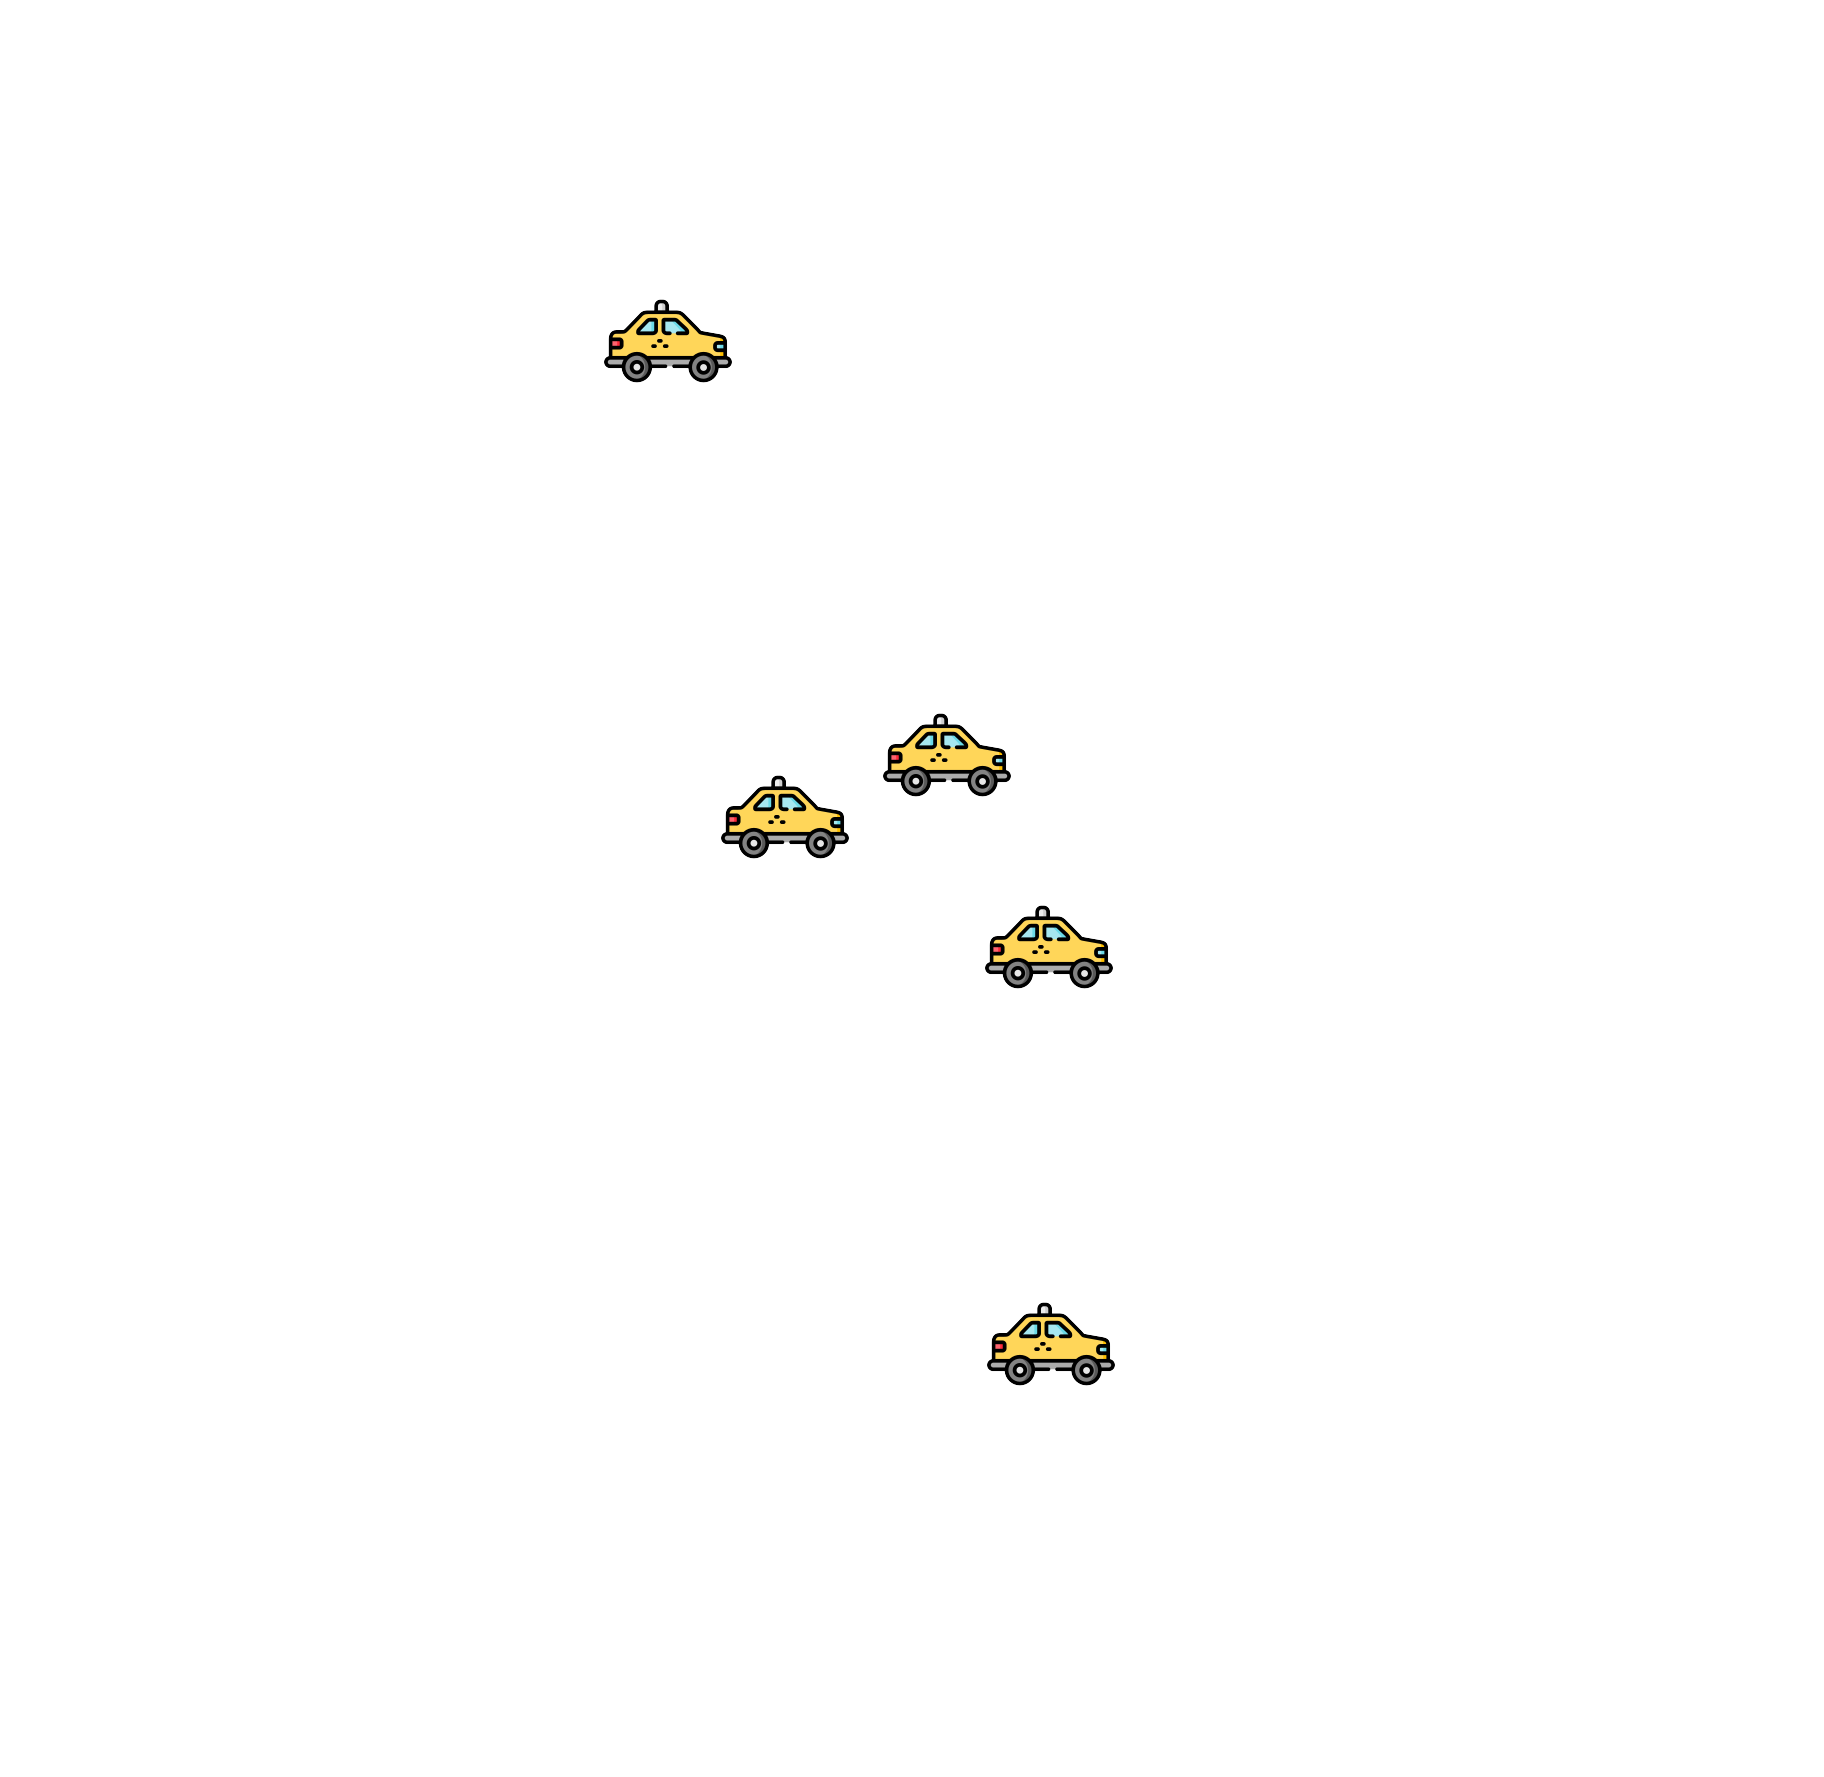
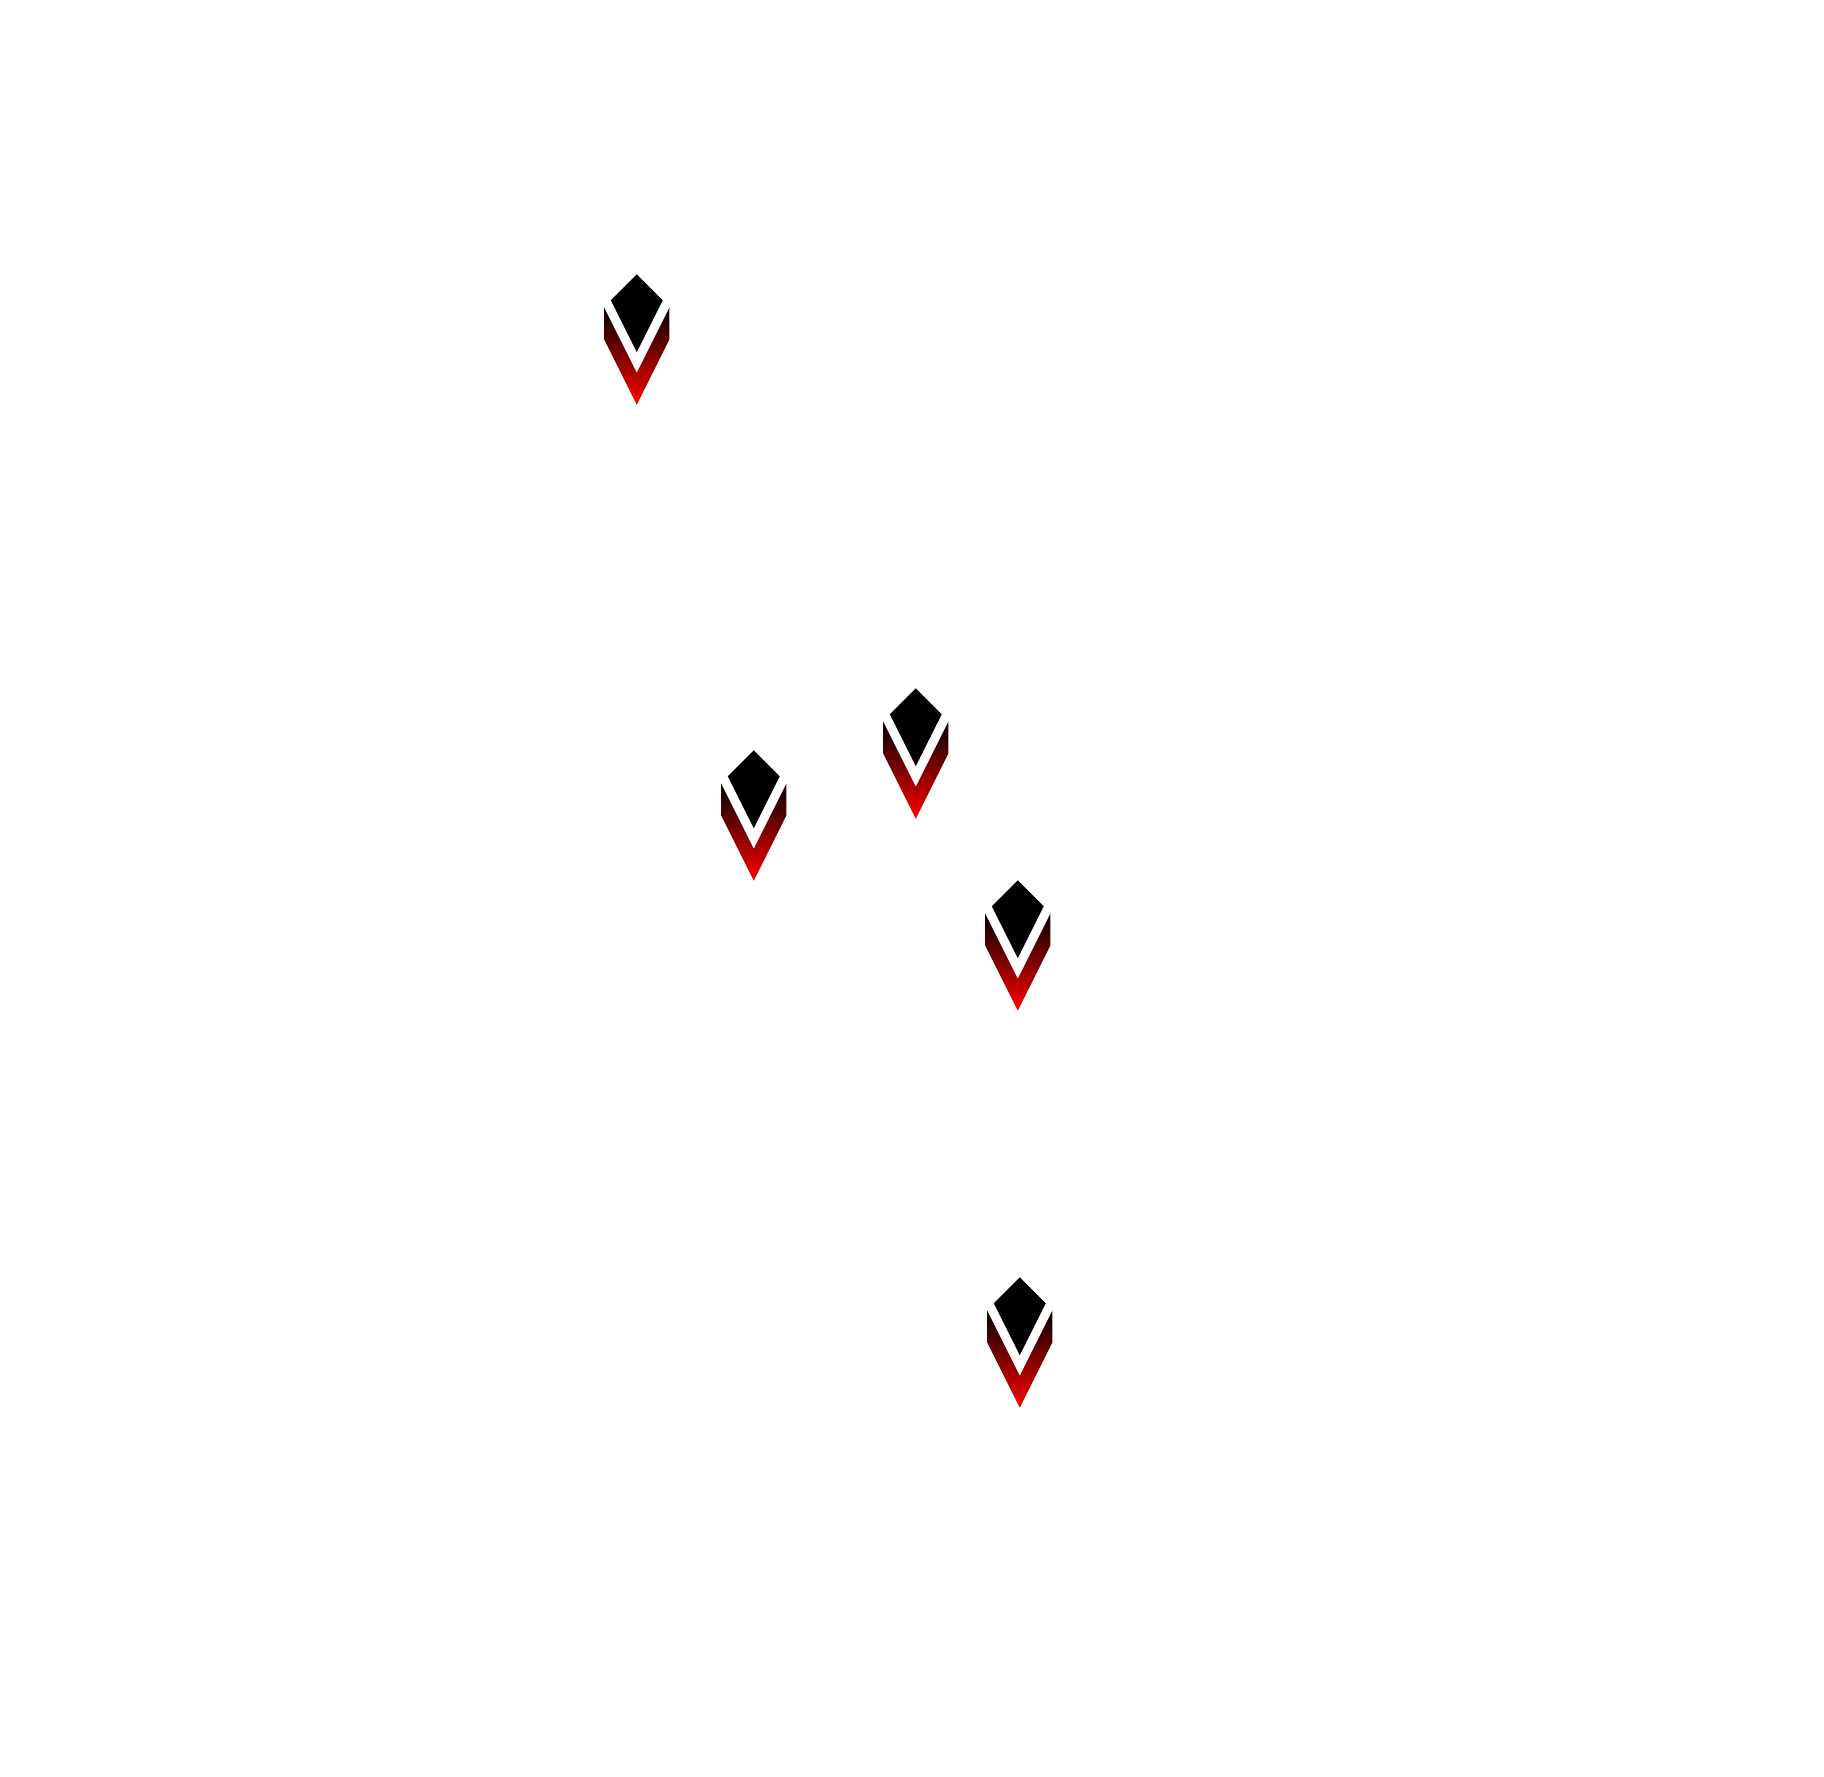
add test data download url for layer rendering apis(#26)
* add render images

* add render api markdown files

* add layer.rst

* add test data download url

* change icon png

diff --git a/doc-cn/source/python/api/render/function/layer/weighted_pointmap.md b/doc-cn/source/python/api/render/function/layer/weighted_pointmap.md
@@ -76,6 +76,7 @@ color_bound,size_bound,opacity,coordinate_system)**
       >>> from arctern.util.vega import vega_weighted_pointmap
       >>> 
       >>> # 读取 csv 文件并创建绘图数据
+      >>> # test_data.csv下载链接: https://github.com/zilliztech/arctern-resources/raw/benchmarks/benchmarks/dataset/layer_rendering_test_data/test_data.csv
       >>> df = pd.read_csv("test_data.csv", dtype={'longitude':np.float64, 'latitude':np.float64, 'color_weights':np.float64, 'size_weights':np.float64, 'region_boundaries':np.object})
       >>> region = arctern.ST_GeomFromText(pd.Series(['POLYGON ((-73.99668712186558 40.72972339069935, -73.99668712186558 40.7345193345495, -73.99045479584949 40.7345193345495, -73.99045479584949 40.72972339069935, -73.99668712186558 40.72972339069935))']))
       >>> d=pd.DataFrame(region).T

diff --git a/doc-cn/source/python/api/render/function/layer/heatmap.md b/doc-cn/source/python/api/render/function/layer/heatmap.md
@@ -70,6 +70,7 @@ coordinate_system,aggregation_type)**
       >>> from arctern.util.vega import vega_heatmap
       >>> 
       >>> # 读取 csv 文件并创建绘图数据
+      >>> # test_data.csv下载链接: https://github.com/zilliztech/arctern-resources/raw/benchmarks/benchmarks/dataset/layer_rendering_test_data/test_data.csv
       >>> df = pd.read_csv("test_data.csv", dtype={'longitude':np.float64, 'latitude':np.float64, 'color_weights':np.float64, 'size_weights':np.float64, 'region_boundaries':np.object})
       >>> region = arctern.ST_GeomFromText(pd.Series(['POLYGON ((-74.01424568752932 40.72759334104623, -74.01424568752932 40.76721122683304, -73.96056823889673 40.76721122683304, -73.96056823889673 40.72759334104623, -74.01424568752932 40.72759334104623))']))
       >>> d=pd.DataFrame(region).T

diff --git a/doc-cn/source/python/api/render/function/layer/pointmap.md b/doc-cn/source/python/api/render/function/layer/pointmap.md
@@ -70,6 +70,7 @@ opacity,coordinate_system)**
       >>> from arctern.util.vega import vega_pointmap
       >>> 
       >>> # 读取 csv 文件并创建绘图数据
+      >>> # test_data.csv下载链接: https://github.com/zilliztech/arctern-resources/raw/benchmarks/benchmarks/dataset/layer_rendering_test_data/test_data.csv
       >>> df = pd.read_csv("test_data.csv", dtype={'longitude':np.float64, 'latitude':np.float64, 'color_weights':np.float64, 'size_weights':np.float64, 'region_boundaries':np.object})
       >>> region = arctern.ST_GeomFromText(pd.Series(['POLYGON ((-74.01398981737215 40.71353244267465, -74.01398981737215 40.74480271529791, -73.96979949831308 40.74480271529791, -73.96979949831308 40.71353244267465, -74.01398981737215 40.71353244267465))']))
       >>> d = pd.DataFrame(region).T

diff --git a/doc-cn/source/python/api/render/function/layer/iconviz.md b/doc-cn/source/python/api/render/function/layer/iconviz.md
@@ -65,6 +65,7 @@
       >>> from arctern.util.vega import vega_icon
       >>> 
       >>> # 读取 csv 文件并创建绘图数据
+      >>> # test_data.csv下载链接: https://github.com/zilliztech/arctern-resources/raw/benchmarks/benchmarks/dataset/layer_rendering_test_data/test_data.csv
       >>> df = pd.read_csv("test_data.csv", dtype={'longitude':np.float64, 'latitude':np.float64, 'color_weights':np.float64, 'size_weights':np.float64, 'region_boundaries':np.object}, nrows=10)
       >>> region = arctern.ST_GeomFromText(pd.Series(['POLYGON ((-74.01424568752932 40.72759334104623, -74.01424568752932 40.76721122683304, -73.96056823889673 40.76721122683304, -73.96056823889673 40.72759334104623, -74.01424568752932 40.72759334104623))']))
       >>> d=pd.DataFrame(region).T

diff --git a/doc-cn/source/python/api/render/function/layer/choroplethmap.md b/doc-cn/source/python/api/render/function/layer/choroplethmap.md
@@ -74,6 +74,7 @@ color_bound,opacity,coordinate_system,aggregation_type)**
       >>> from arctern.util.vega import vega_choroplethmap
       >>> 
       >>> # 读取 csv 文件并创建绘图数据
+      >>> # test_data.csv下载链接: https://github.com/zilliztech/arctern-resources/raw/benchmarks/benchmarks/dataset/layer_rendering_test_data/test_data.csv
       >>> df = pd.read_csv("test_data.csv", dtype={'longitude':np.float64, 'latitude':np.float64, 'color_weights':np.float64, 'size_weights':np.float64, 'region_boundaries':np.object})
       >>> input1 = df[pd.notna(df['region_boundaries'])].groupby(['region_boundaries']).mean().reset_index()
       >>> polygon = arctern.ST_GeomFromText(input1['region_boundaries'])

diff --git a/doc-cn/source/spark/api/render/function/layer/choroplethmap.md b/doc-cn/source/spark/api/render/function/layer/choroplethmap.md
@@ -76,6 +76,7 @@ color_bound,opacity,coordinate_system,aggregation_type)**
       >>> spark = SparkSession.builder.appName("Python Arrow-in-Spark example").getOrCreate()
       >>> spark.conf.set("spark.sql.execution.arrow.pyspark.enabled", "true")
       >>> 
+      >>> # test_data.csv下载链接: https://github.com/zilliztech/arctern-resources/raw/benchmarks/benchmarks/dataset/layer_rendering_test_data/test_data.csv
       >>> table_df = spark.read.format("csv").option("header", True).option("delimiter", ",").schema(
       >>>     "longitude double, latitude double, color_weights double, size_weights double, region_boundaries string").load(
       >>>     "file:///tmp/test_data.csv").cache()

diff --git a/doc-cn/source/spark/api/render/function/layer/weighted_pointmap.md b/doc-cn/source/spark/api/render/function/layer/weighted_pointmap.md
@@ -78,6 +78,7 @@ color_bound,size_bound,opacity,coordinate_system)**
       >>> spark = SparkSession.builder.appName("Python Arrow-in-Spark example").getOrCreate()
       >>> spark.conf.set("spark.sql.execution.arrow.pyspark.enabled", "true")
       >>> 
+      >>> # test_data.csv下载链接: https://github.com/zilliztech/arctern-resources/raw/benchmarks/benchmarks/dataset/layer_rendering_test_data/test_data.csv
       >>> table_df = spark.read.format("csv").option("header", True).option("delimiter", ",").schema(
       >>>     "longitude double, latitude double, color_weights double, size_weights double,region_boundaries string").load(
       >>>     "file:///tmp/test_data.csv").cache()

diff --git a/doc-cn/source/spark/api/render/function/layer/heatmap.md b/doc-cn/source/spark/api/render/function/layer/heatmap.md
@@ -72,6 +72,7 @@ coordinate_system,aggregation_type)**
       >>> spark = SparkSession.builder.appName("Python Arrow-in-Spark example").getOrCreate()
       >>> spark.conf.set("spark.sql.execution.arrow.pyspark.enabled", "true")
       >>> 
+      >>> # test_data.csv下载链接: https://github.com/zilliztech/arctern-resources/raw/benchmarks/benchmarks/dataset/layer_rendering_test_data/test_data.csv
       >>> table_df = spark.read.format("csv").option("header", True).option("delimiter", ",").schema(
       >>>     "longitude double, latitude double, color_weights double, size_weights double, region_boundaries string").load(
       >>>     "file:///tmp/test_data.csv").cache()

diff --git a/doc-cn/source/spark/api/render/function/layer/pointmap.md b/doc-cn/source/spark/api/render/function/layer/pointmap.md
@@ -72,6 +72,7 @@ opacity,coordinate_system)**
       >>> spark = SparkSession.builder.appName("Python Arrow-in-Spark example").getOrCreate()
       >>> spark.conf.set("spark.sql.execution.arrow.pyspark.enabled", "true")
       >>> 
+      >>> # test_data.csv下载链接: https://github.com/zilliztech/arctern-resources/raw/benchmarks/benchmarks/dataset/layer_rendering_test_data/test_data.csv
       >>> table_df = spark.read.format("csv").option("header", True).option("delimiter", ",").schema(
       >>>     "longitude double, latitude double, color_weights double, size_weights double, region_boundaries string").load(
       >>>     "file:///tmp/test_data.csv").cache()

diff --git a/doc-cn/source/spark/api/render/function/layer/iconviz.md b/doc-cn/source/spark/api/render/function/layer/iconviz.md
@@ -67,6 +67,7 @@
       >>> spark = SparkSession.builder.appName("Python Arrow-in-Spark example").getOrCreate()
       >>> spark.conf.set("spark.sql.execution.arrow.pyspark.enabled", "true")
       >>> 
+      >>> # test_data.csv下载链接: https://github.com/zilliztech/arctern-resources/raw/benchmarks/benchmarks/dataset/layer_rendering_test_data/test_data.csv
       >>> table_df = spark.read.format("csv").option("header", True).option("delimiter", ",").schema(
       >>>     "longitude double, latitude double, color_weights double, size_weights double, region_boundaries string").load(
       >>>     "file:///tmp/test_data.csv").cache()
